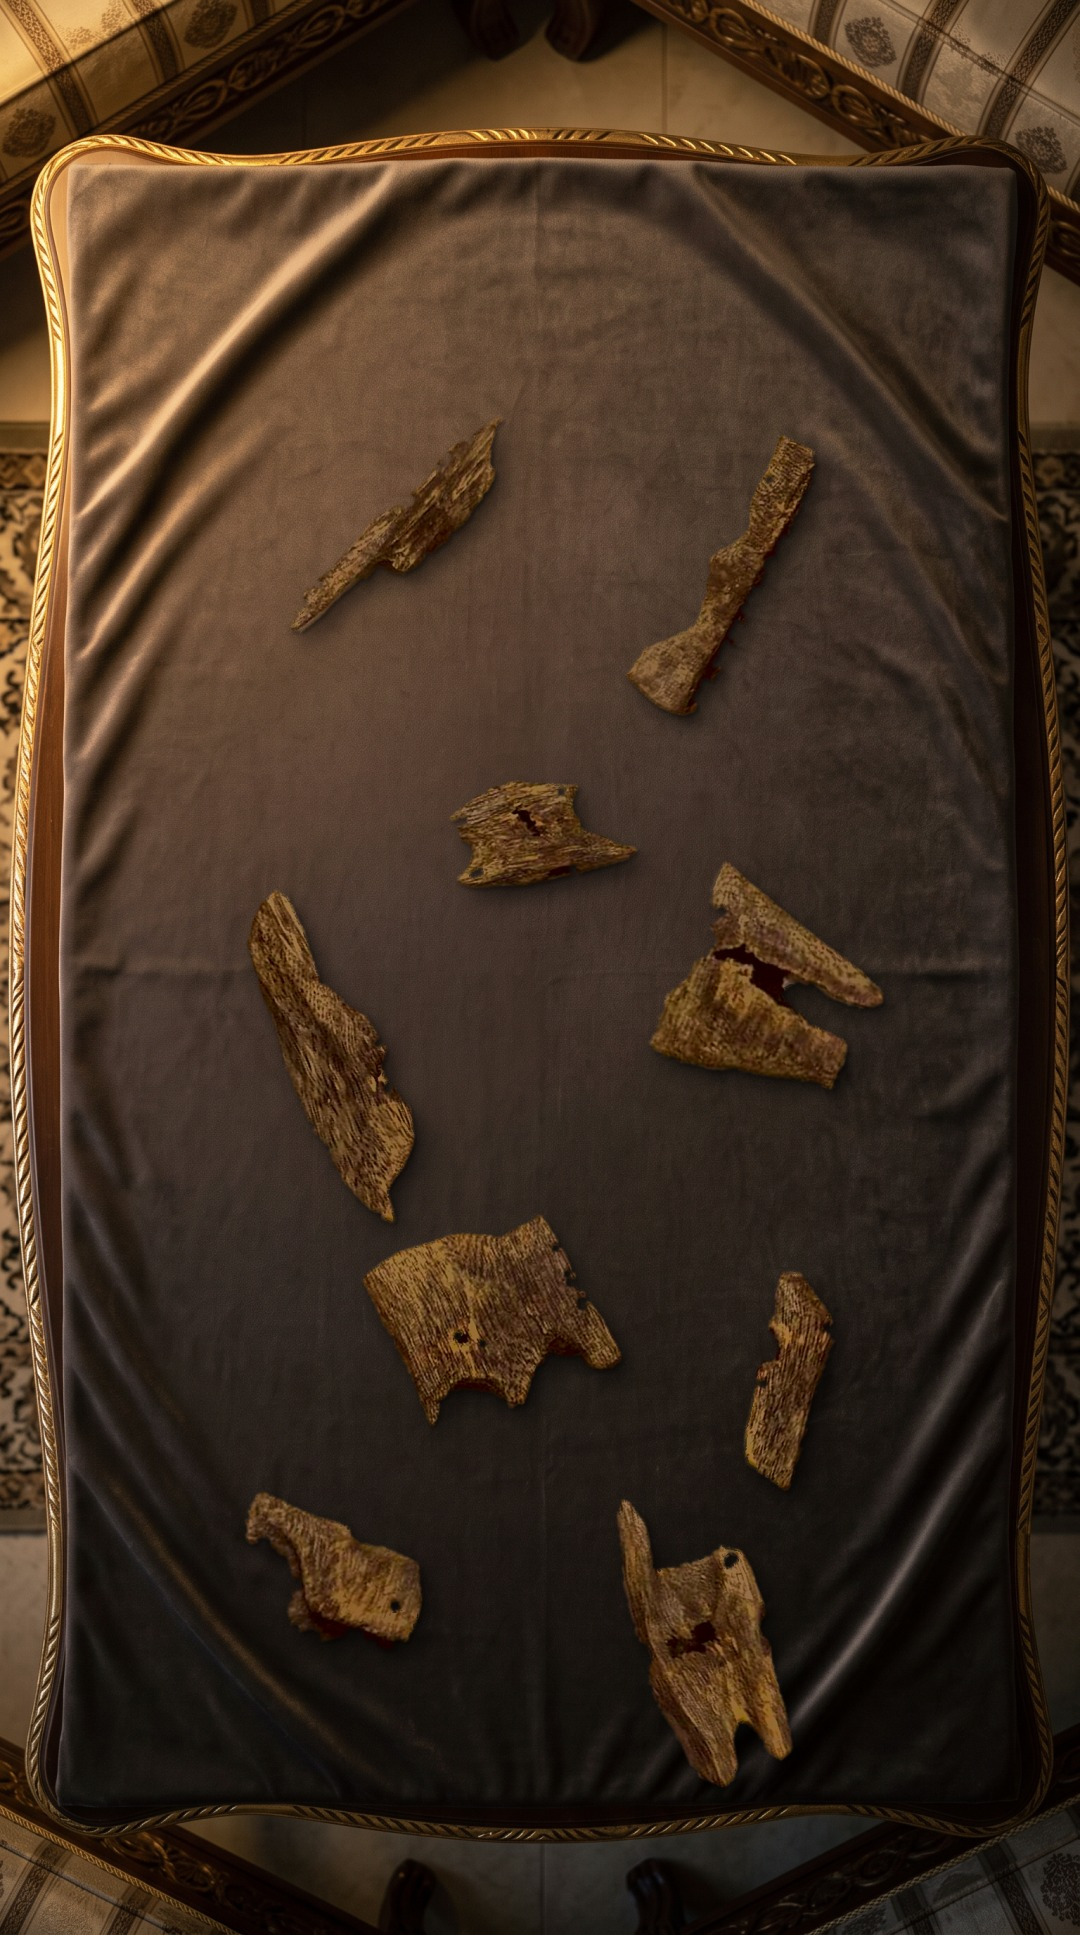
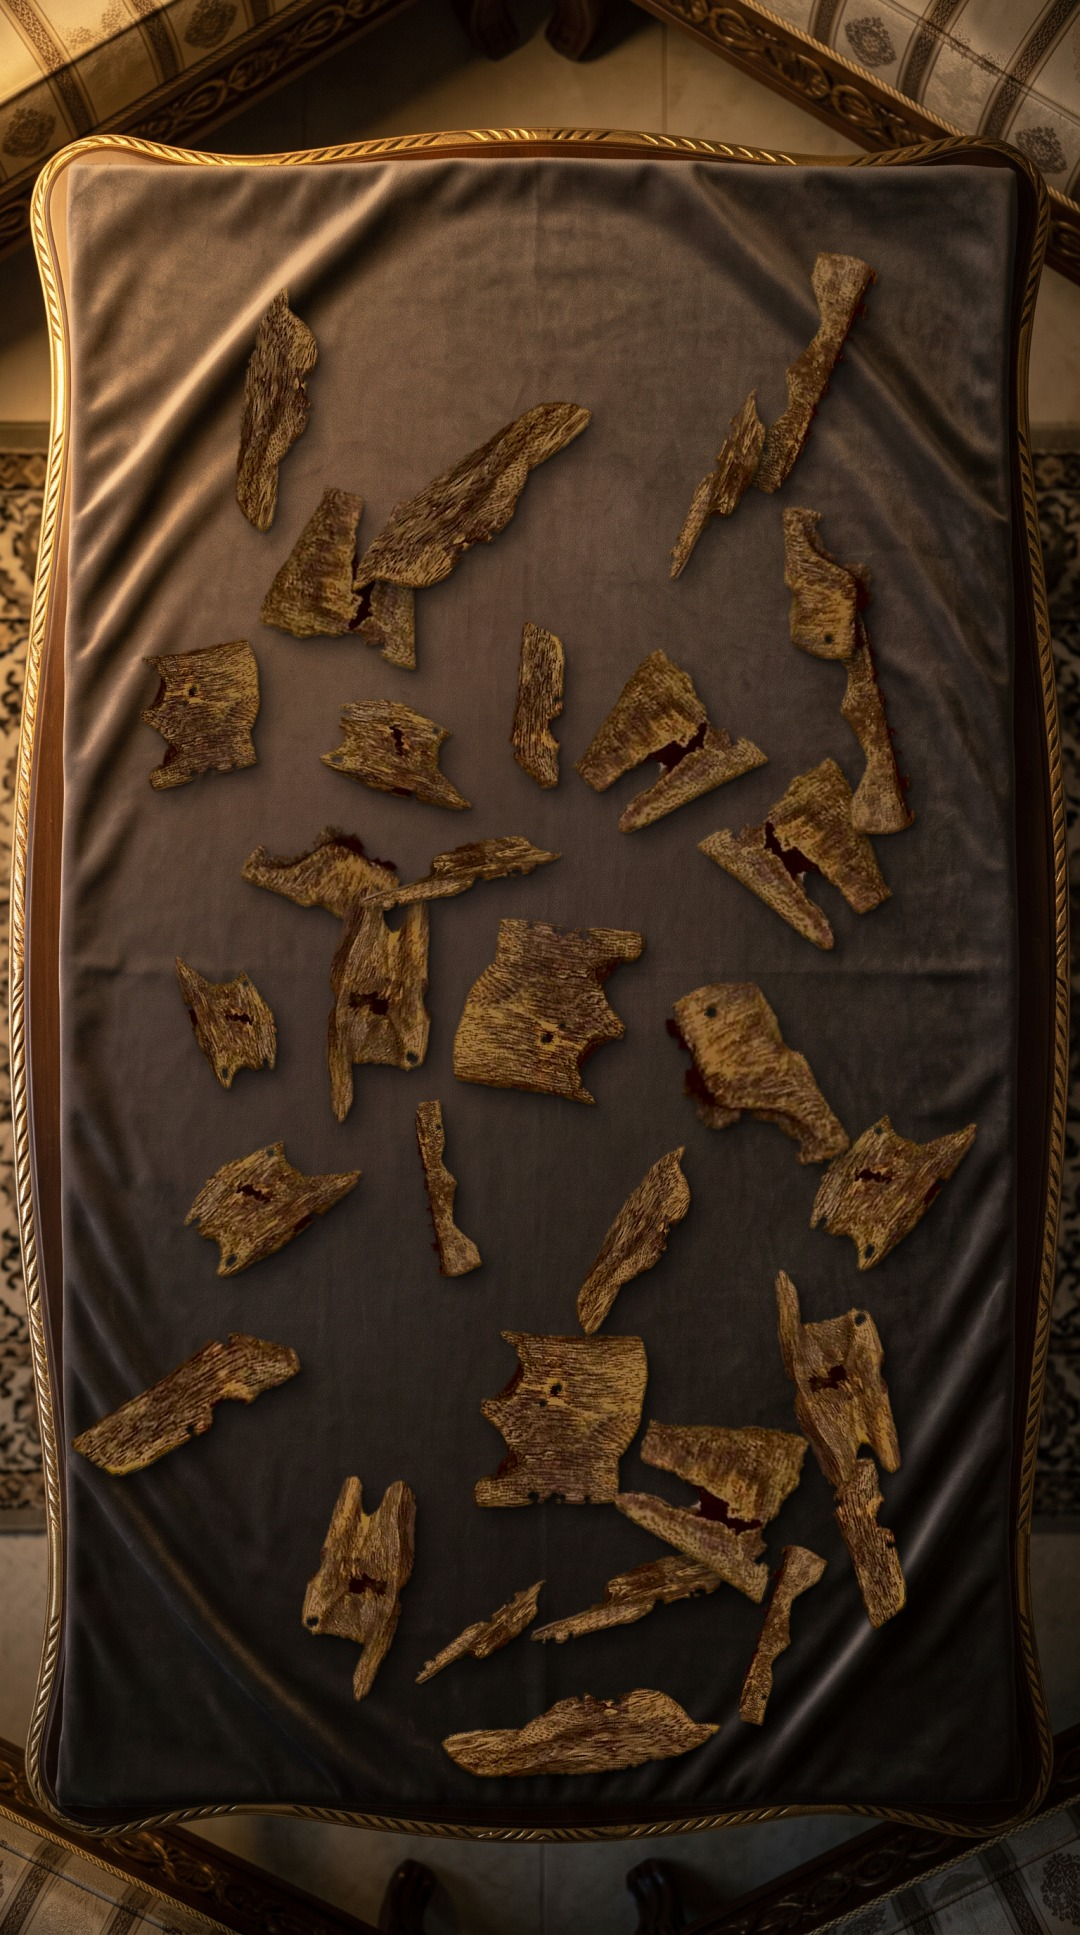
Kinam diff reel: dense real-piece spread on velvet (32 pieces)
Claude-Session: https://claude.ai/code/session_01TQdgL8psWQ5B4XyTxv2k9v

Changed region(s): [[0.0611, 0.124, 0.9167, 0.9302]]

diff --git a/kinam_diff/edit/cloth_pieces.py b/kinam_diff/edit/cloth_pieces.py
@@ -5,9 +5,16 @@ K = '/home/user/canva21/kinam/'; T = json.load(open(K + 'pieces/target_kinam.jso
 out = cv2.imread('/home/user/canva21/kinam_diff/images/d03_cloth_empty.png').astype(np.float32); H, W = out.shape[:2]
 P = sorted(glob.glob(K + 'pieces/pieces_white_bg_*.png'))
 # (piece index, centre x, centre y, length px, angle)  -- loose, hand-placed look, more space at the top for captions
-LAY = [(0, 560, 760, 430, -18), (1, 1040, 820, 400, 22), (2, 760, 1180, 300, 8), (3, 470, 1500, 420, -30), (4, 1060, 1420, 380, 35),
-       (5, 700, 1880, 400, -8), (6, 1120, 1960, 300, 60), (7, 480, 2240, 300, 15), (8, 980, 2350, 400, -24)]
-def piece(i, cx, cy, L, ang):
+import sys
+rng = np.random.default_rng(int(sys.argv[1]) if len(sys.argv) > 1 else 7)
+# dense loose spread: ~30 real pieces (each of the 9 cut-outs used 3-4 times, rotated / flipped / resized so no two look alike)
+LAY = []; pts = []
+for k in range(400):
+    if len(LAY) >= 32: break
+    x, y = rng.uniform(260, 1280), rng.uniform(520, 2480); L = rng.uniform(230, 360)
+    if any(np.hypot(x - px, y - py) < 0.62 * (L + pl) / 2 for px, py, pl in pts): continue
+    pts.append((x, y, L)); LAY.append((len(LAY) % 9, x, y, L, rng.uniform(-180, 180), bool(rng.random() < 0.5)))
+def piece(i, cx, cy, L, ang, flip=False):
     global out
     p = cv2.imread(P[i], -1); hs = cv2.cvtColor(p[..., :3], cv2.COLOR_BGR2HSV).astype(int)
     a0 = (p[..., 3] > 128).astype(np.uint8); rim = (a0 > 0) & (cv2.erode(a0, np.ones((17, 17), np.uint8)) == 0)
@@ -17,6 +24,7 @@ def piece(i, cx, cy, L, ang):
     keep = cv2.morphologyEx((al > 128).astype(np.uint8), cv2.MORPH_OPEN, np.ones((5, 5), np.uint8))
     n, l, st, _ = cv2.connectedComponentsWithStats(keep); keep = (l == max(range(1, n), key=lambda k: st[k, 4])).astype(np.uint8)
     p[..., 3] = (cv2.GaussianBlur(keep.astype(np.float32), (0, 0), 0.8) * 255).astype(np.uint8)
+    if flip: p = p[:, ::-1].copy()
     h, w = p.shape[:2]; s = L / max(h, w)
     p = cv2.resize(p, (int(w * s), int(h * s)), interpolation=cv2.INTER_CUBIC); h, w = p.shape[:2]
     D = int(np.hypot(h, w)) + 40; c = np.zeros((D, D, 4), np.uint8); c[(D - h) // 2:(D - h) // 2 + h, (D - w) // 2:(D - w) // 2 + w] = p
@@ -32,7 +40,9 @@ def piece(i, cx, cy, L, ang):
         own = lab[..., ch]; lab[..., ch] = (own - own[sel].mean()) * 1.25 + T[key][0] * Lm + T[key][1] + 3
     rgb = cv2.cvtColor(np.clip(lab, 0, 255).astype(np.uint8), cv2.COLOR_LAB2BGR).astype(np.float32)
     rgb = rgb + 0.35 * (rgb - cv2.GaussianBlur(rgb, (0, 0), 1.2))
-    X, Y = int(cx - D / 2), int(cy - D / 2); reg = out[Y:Y + D, X:X + D]
+    X, Y = int(cx - D / 2), int(cy - D / 2)
+    if X < 0 or Y < 0 or X + D > W or Y + D > H: return
+    reg = out[Y:Y + D, X:X + D]
     soft = cv2.warpAffine(cv2.GaussianBlur(a, (0, 0), 14), np.float32([[1, 0, 14], [0, 1, 18]]), (D, D))
     cont = cv2.warpAffine(cv2.GaussianBlur(a, (0, 0), 3), np.float32([[1, 0, 3], [0, 1, 4]]), (D, D))
     reg *= (1 - 0.55 * soft[..., None]) * (1 - 0.5 * cont[..., None] * (1 - a[..., None]))
